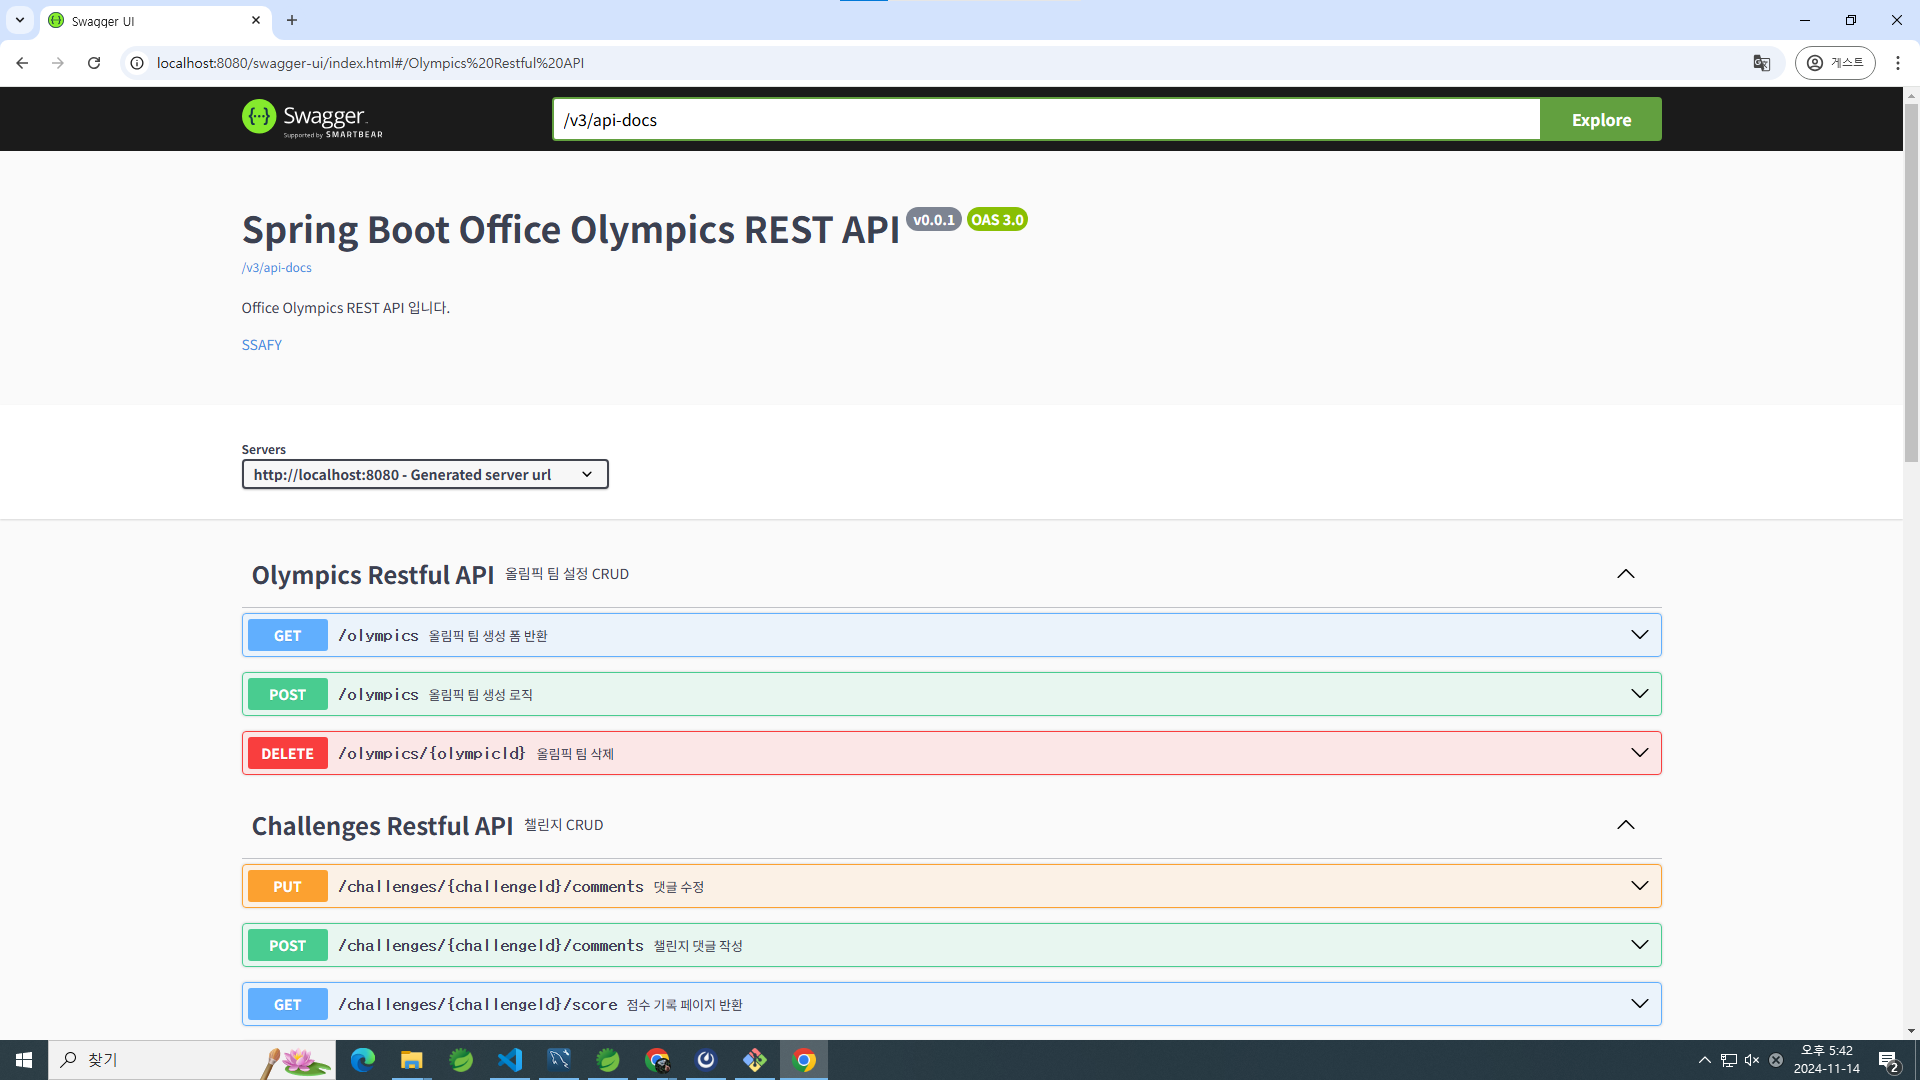
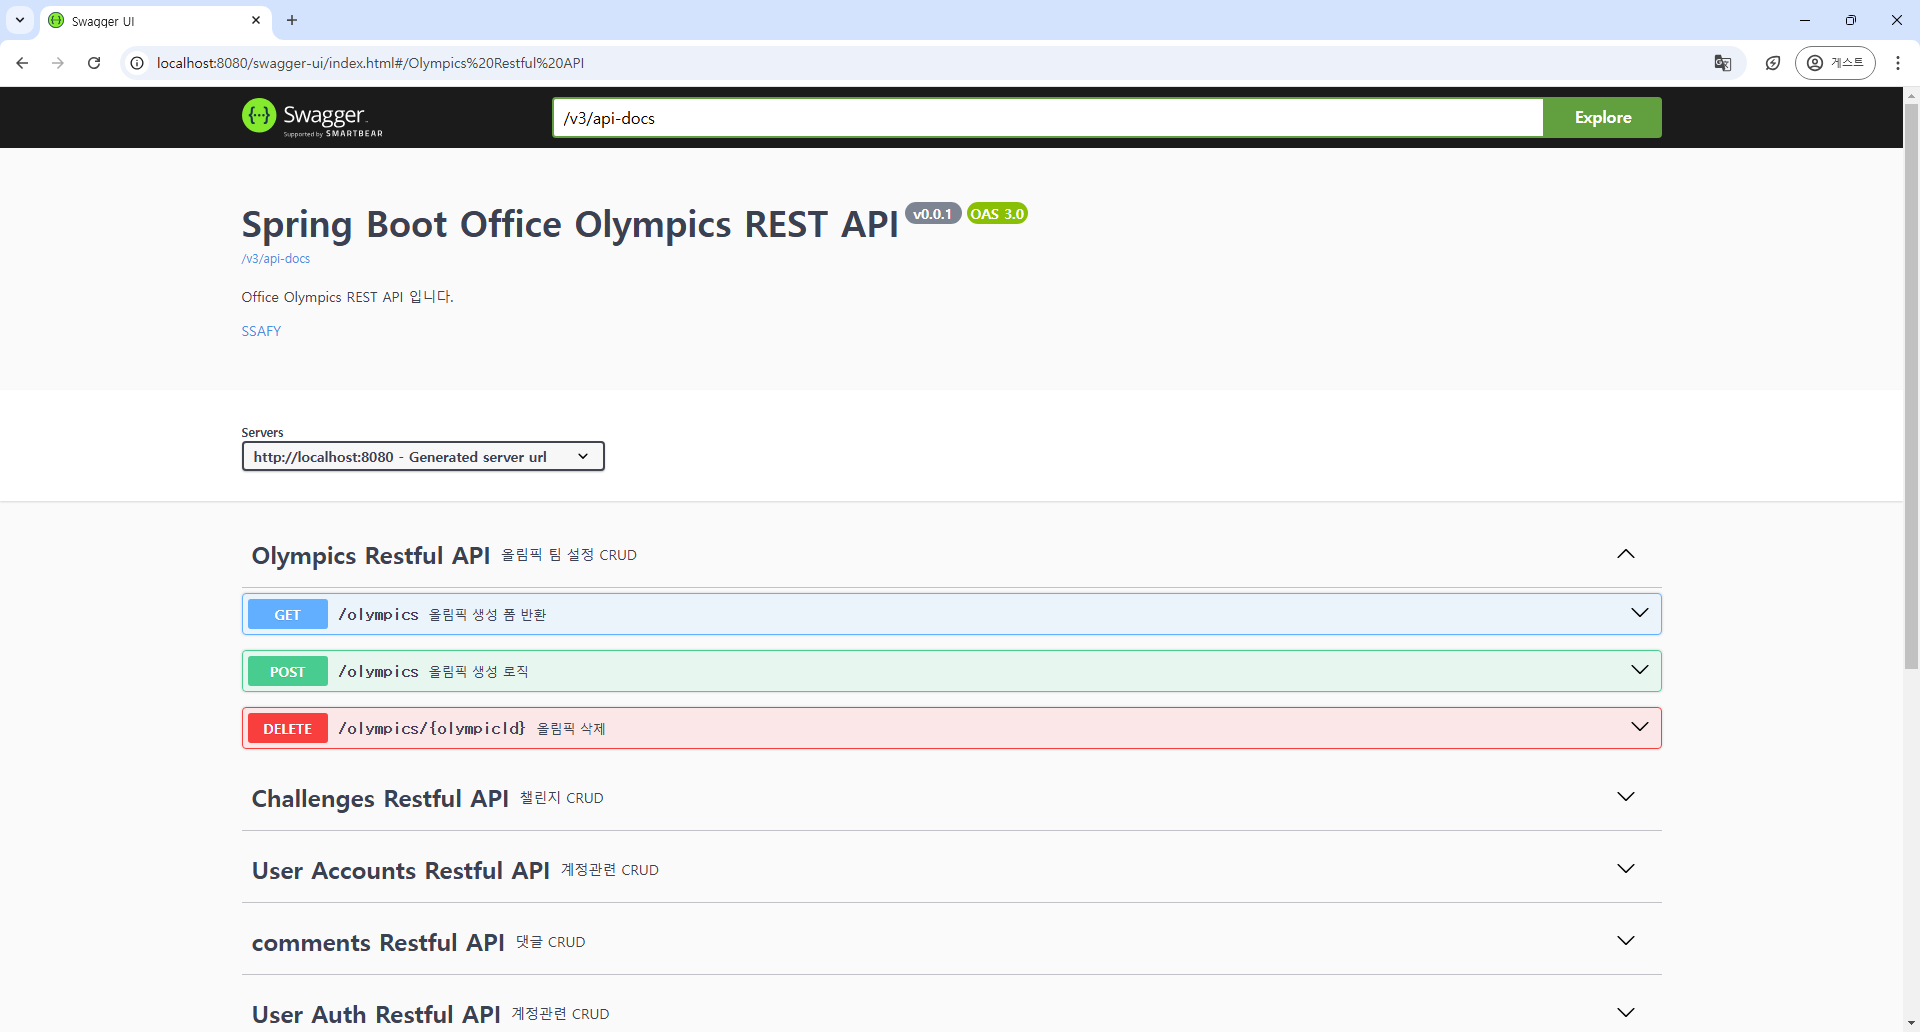
feat: auth/comments 업데이트 및 Swagger 경로 WebConfig에 추가
backend_summaries에서 auth/comments를 업데이트하여 인증 및 댓글 로직을 개선했습니다.

WebConfig에 Swagger 경로를 추가하여 API 문서화 접근성을 향상시켰습니다.

diff --git a/project/OfficeOlympics/src/main/java/com/olympics/mvc/config/WebConfig.java b/project/OfficeOlympics/src/main/java/com/olympics/mvc/config/WebConfig.java
@@ -19,7 +19,7 @@ public class WebConfig implements WebMvcConfigurer{
 	@Override
 	public void addInterceptors(InterceptorRegistry registry) {
 		registry.addInterceptor(loginInterceptor).addPathPatterns("/**")
-		.excludePathPatterns("/auth/**", "/", "/error", "/static/**");
+		.excludePathPatterns("/auth/**", "/", "/error", "/static/**, /api-user/**", "/swagger-ui/**", "/v3/api-docs/**");
 	}
 	
 	@Override

diff --git a/backend_summaries/Comment.md b/backend_summaries/Comment.md
@@ -9,14 +9,14 @@
 
 ### Swagger API 이미지
 
-![be_challenges.png](../media/backend/be_challenges.png)
+![be_comments.png](../media/backend/be_comments.png)
 
-- **댓글 관리**: `ChallengeController`와 `CommentsService`를 통해 챌린지별 댓글 작성, 조회, 수정, 삭제 기능을 구현했습니다.
+- **댓글 관리**: `CommentsController`와 `CommentsService`를 통해 챌린지별 댓글 작성, 조회, 수정, 삭제 기능을 구현했습니다.
 - **데이터베이스 연동**: `CommentsDao`와 `CommentsMapper.xml`을 이용해 MyBatis로 댓글 데이터 조작을 수행합니다.
 
 ## 작업 내역
 
-- `ChallengeController.java`
+- `CommentsController.java`
 - `CommentsDao.java`
 - `CommentsMapper.xml`
 - `Comments.java` (DTO)
@@ -40,6 +40,14 @@
     - **댓글 삭제 (DELETE /challenges/{challengeId}/comments/{commentId})**  
         특정 `commentId`의 댓글을 삭제합니다.
 
+    - **대댓글 작성 (POST /challenges/{challengeId}/comments/{commentId}/replies)**  
+        특정 `commentId`에 대댓글을 작성합니다.  
+        - 입력 데이터: `commentText`, `userId`  
+        - 처리 로직: 원댓글 ID를 `commentGroup`에 저장하고, `commentDepth`를 1로 설정합니다.
+
+    - **대댓글 수정 (PUT /challenges/{challengeId}/comments/{commentId}/replies/{replyId})**  
+        특정 `replyId`의 대댓글 내용을 수정합니다.
+
 - service   
     `CommentsServiceImpl` 파일에서는 댓글 조회, 작성, 수정, 삭제 로직이 구현되어 있습니다.
 
@@ -53,7 +61,12 @@
         - `modifyComment` 메서드를 통해 특정 댓글의 내용을 갱신합니다.
 
     - **댓글 삭제 로직**  
-        - `deleteComment` 메서드를 통해 특정 댓글을 삭제합니다.
+        - `deleteComment` 메서드는 댓글 삭제 시 연관된 대댓글을 확인합니다.  
+          대댓글이 존재하면 댓글을 "삭제된 메시지입니다"로 표시(soft delete).  
+          모든 대댓글이 삭제된 경우, 원댓글도 삭제됩니다.
+    - **트랜잭션 관리**  
+        - `insertComment`, `modifyComment`, `deleteComment` 등 주요 메서드에서 트랜잭션을 활용하여 데이터 일관성을 유지합니다.
+        - 예외 발생 시 모든 작업이 롤백됩니다.
 
 - dao   
     `CommentsDao`는 댓글과 관련된 데이터베이스 연산을 정의하는 인터페이스입니다.
@@ -68,11 +81,43 @@
 - mapper   
     `CommentsMapper.xml` 파일은 MyBatis SQL 매핑 파일로, 댓글 조회, 작성, 수정, 삭제 쿼리를 포함합니다.
 
-    - **댓글 조회 쿼리**: `getComments`는 `challengeId` 기반으로 댓글 목록을 반환합니다.
+    - **댓글 및 대댓글 조회 쿼리**: `getComments`는 `commentGroup`, `commentDepth`, `createdAt`으로 정렬하여 계층 구조를 유지하며 댓글과 대댓글을 조회합니다.
     - **작성한 댓글 확인 쿼리**: `findUserComments`는 사용자가 작성한 댓글 여부를 확인합니다.
     - **댓글 추가 쿼리**: `insertComment`는 새로운 댓글을 삽입합니다.
     - **댓글 수정 쿼리**: `modifyComment`는 특정 댓글의 내용을 갱신합니다.
     - **댓글 삭제 쿼리**: `deleteComment`는 특정 댓글을 삭제합니다.
+    - **soft delete 쿼리**: `updateCommentText`는 댓글 텍스트를 "삭제된 메시지입니다"로 갱신하고, `is_deleted` 값을 1로 설정합니다.
+    - **대댓글 작성 쿼리**: `insertReply`는 `commentGroup`에 원댓글 ID를 저장하여 대댓글을 삽입합니다.
+    - **대댓글 수정 쿼리**: `modifyReply`는 특정 대댓글의 내용을 갱신합니다.
 
 - dto   
-    - **Comments.java**: `commentId`, `userId`, `challengeId`, `commentText`, `regDate`, `updateDate`를 포함하여 댓글 정보를 나타냅니다.
+    - **Comments.java**: `commentId`, `userId`, `challengeId`, `commentDepth`, `commentGroup`, `commentText`, `regDate`, `updateDate`, `isDeleted`를 포함하여 댓글 정보를 나타냅니다.
+
+## ※ 댓글 로직 설계
+
+### 설계 시 고려 사항
+
+1. **계층 구조 관리**:
+ - 댓글과 대댓글은 계층 구조를 가집니다.이 계층을 효율적으로 관리하기 위해 commentGroup 필드에 원댓글의 commentId를 저장하는 방식을 도입하였습니다.
+ - 대댓글은 commentDepth로 구분하며, commentGroup은 그룹화를 지원합니다.
+
+2. **삭제 처리**:
+ - 댓글 삭제 시, 대댓글이 존재할 경우 "삭제된 메시지입니다"로 대체합니다.
+ - 대댓글이 모두 삭제된 경우, 원댓글도 삭제 처리합니다.
+
+3. **조회 효율성**:
+ - 대댓글은 commentGroup으로 그룹화하고, reg_date를 기준으로 정렬하여 조회합니다.
+ - 하나의 쿼리로 댓글과 대댓글을 동시에 가져올 수 있도록 설계했습니다.
+
+4. **데이터 무결성**:
+ - 본인만 댓글 및 대댓글 수정/삭제 가능하며, 삭제된 댓글은 수정 불가하도록 처리했습니다.
+
+### commentGroup을 활용한 구조의 장점
+1. **간단한 데이터 모델**:
+ - commentGroup과 commentDepth만으로 댓글 및 대댓글 계층 표현이 가능했으며, 별도 테이블이 필요하지 않게 되었습니다.
+
+2. **효율적인 정렬**:
+ - 댓글 및 대댓글은 commentGroup으로 묶여 reg_date로 정렬하도록 하여 대댓글이 많은 경우에도 성능 저하를 최소화하였습니다.
+
+3. **확장 가능성**:
+ - 향후 메타데이터(예: 좋아요, 신고)를 추가하기 용이합니다.

diff --git a/backend_summaries/Auth_Accounts.md b/backend_summaries/Auth_Accounts.md
@@ -119,3 +119,32 @@
 
 - MyBatis Mapper를 통해 해싱된 비밀번호 값을 데이터베이스에 저장합니다.
 - 저장 시 Salt를 함께 사용하여, 동일한 비밀번호라도 사용자마다 다른 해시 값을 가지도록 처리합니다.
+
+## ※ 파일 검증 기능
+
+### 파일 검증 기능의 도입 배경 및 목적:
+
+1. **보안 강화**: 
+ - 업로드된 파일이 허용된 형식(JPEG, PNG)이 아닌 경우, 악성 파일이나 스크립트가 서버에 업로드될 수 있는 보안 위협이 발생합니다.
+ - 확장자뿐 아니라 MIME 타입을 동시에 검증하여 파일 위조 및 우회 공격을 방지합니다.
+
+2. **시스템 안정성 유지**: 
+ - 허용되지 않은 형식의 파일이 시스템 내에서 처리되면 예기치 않은 오류가 발생할 수 있습니다. 파일 검증을 통해 이러한 문제를 사전에 차단합니다.
+
+3. **업로드 제한 규정 준수**: 
+ - 프로젝트 요구사항에 따라 특정 파일 형식(이미지: JPEG, PNG)만 허용하며, 다른 유형의 파일은 처리하지 않습니다.
+ - 불필요한 데이터 저장 및 처리 부담을 줄여 시스템 성능을 최적화합니다.
+
+## ※ 세션 검증 기능
+
+### 파일 검증 기능의 도입 배경 및 목적:
+
+1. **보안 유지**:
+ - 세션 하이재킹(Session Hijacking)과 같은 보안 위협을 방지합니다.
+ - 세션 내 사용자 정보를 요청된 사용자 ID와 비교함으로써 인증된 요청만 처리합니다.
+
+2. **권한 제어**:
+ - 인증되지 않은 세션 또는 다른 사용자의 세션을 사용하는 요청을 차단하여 시스템 내 데이터 접근 권한을 보호합니다.
+
+3. **유연한 통합**:
+ - 컨트롤러나 서비스 계층에서 간단히 호출하여 세션 유효성을 검증할 수 있도록 설계하였습니다.
